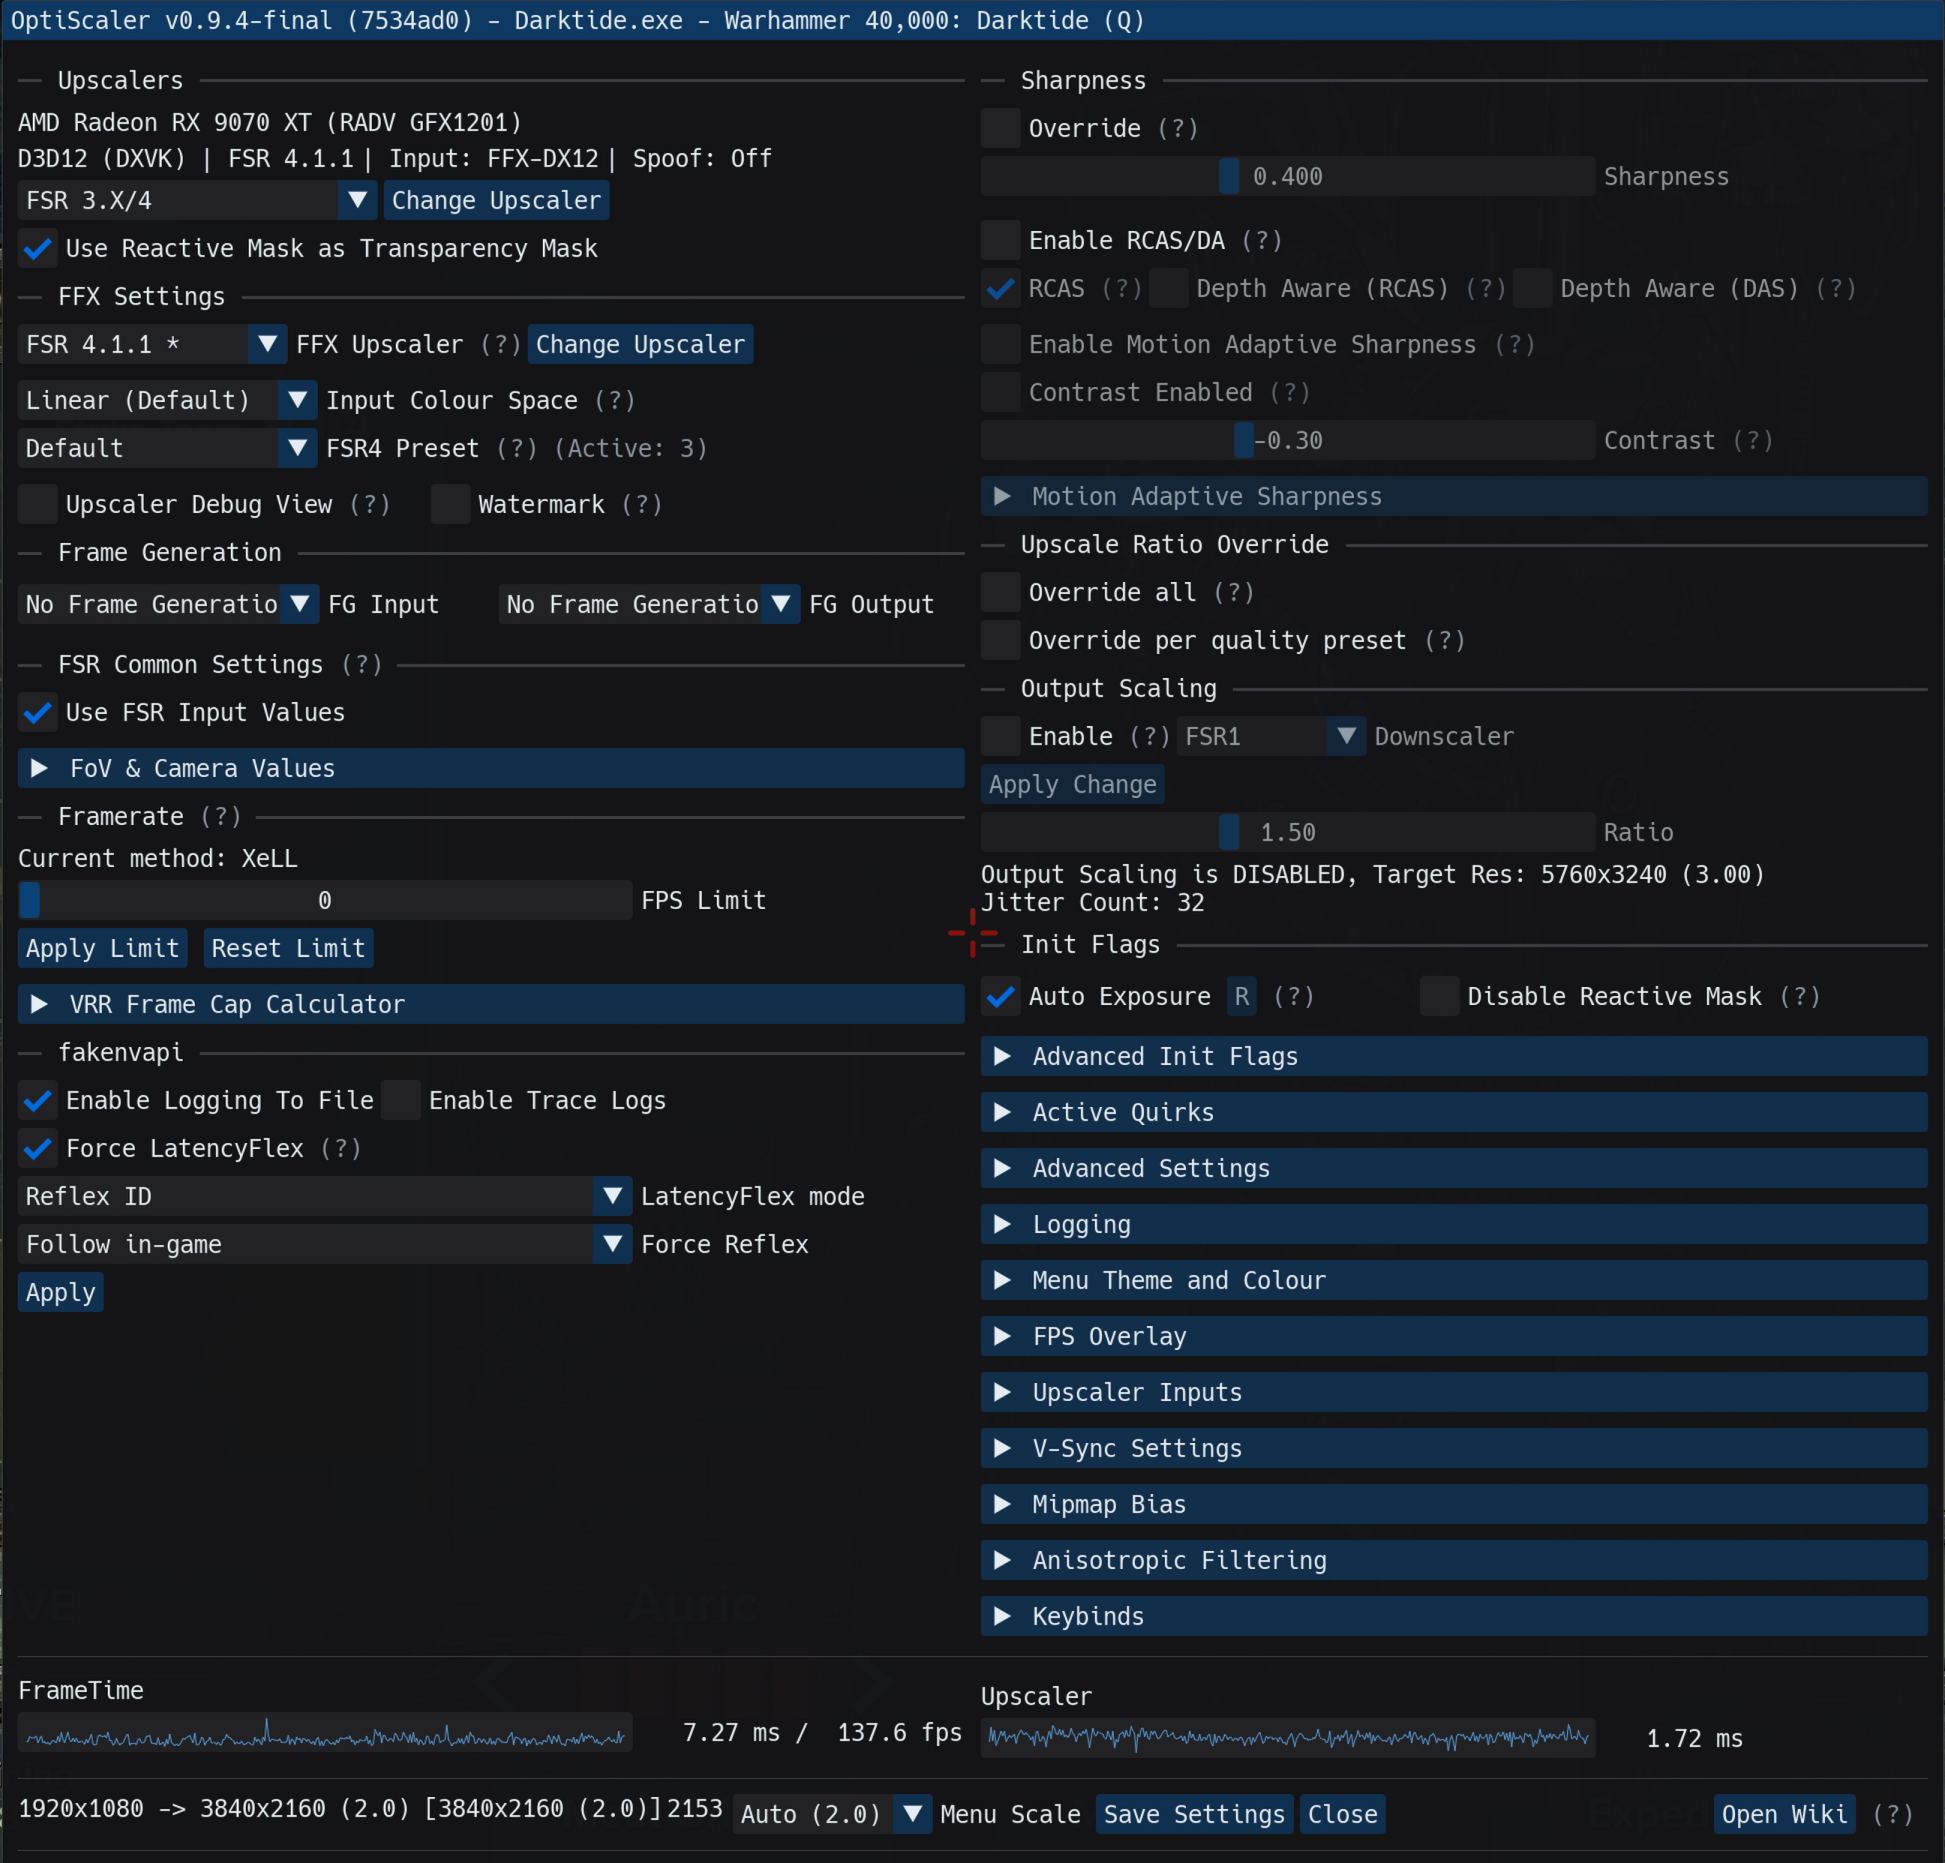
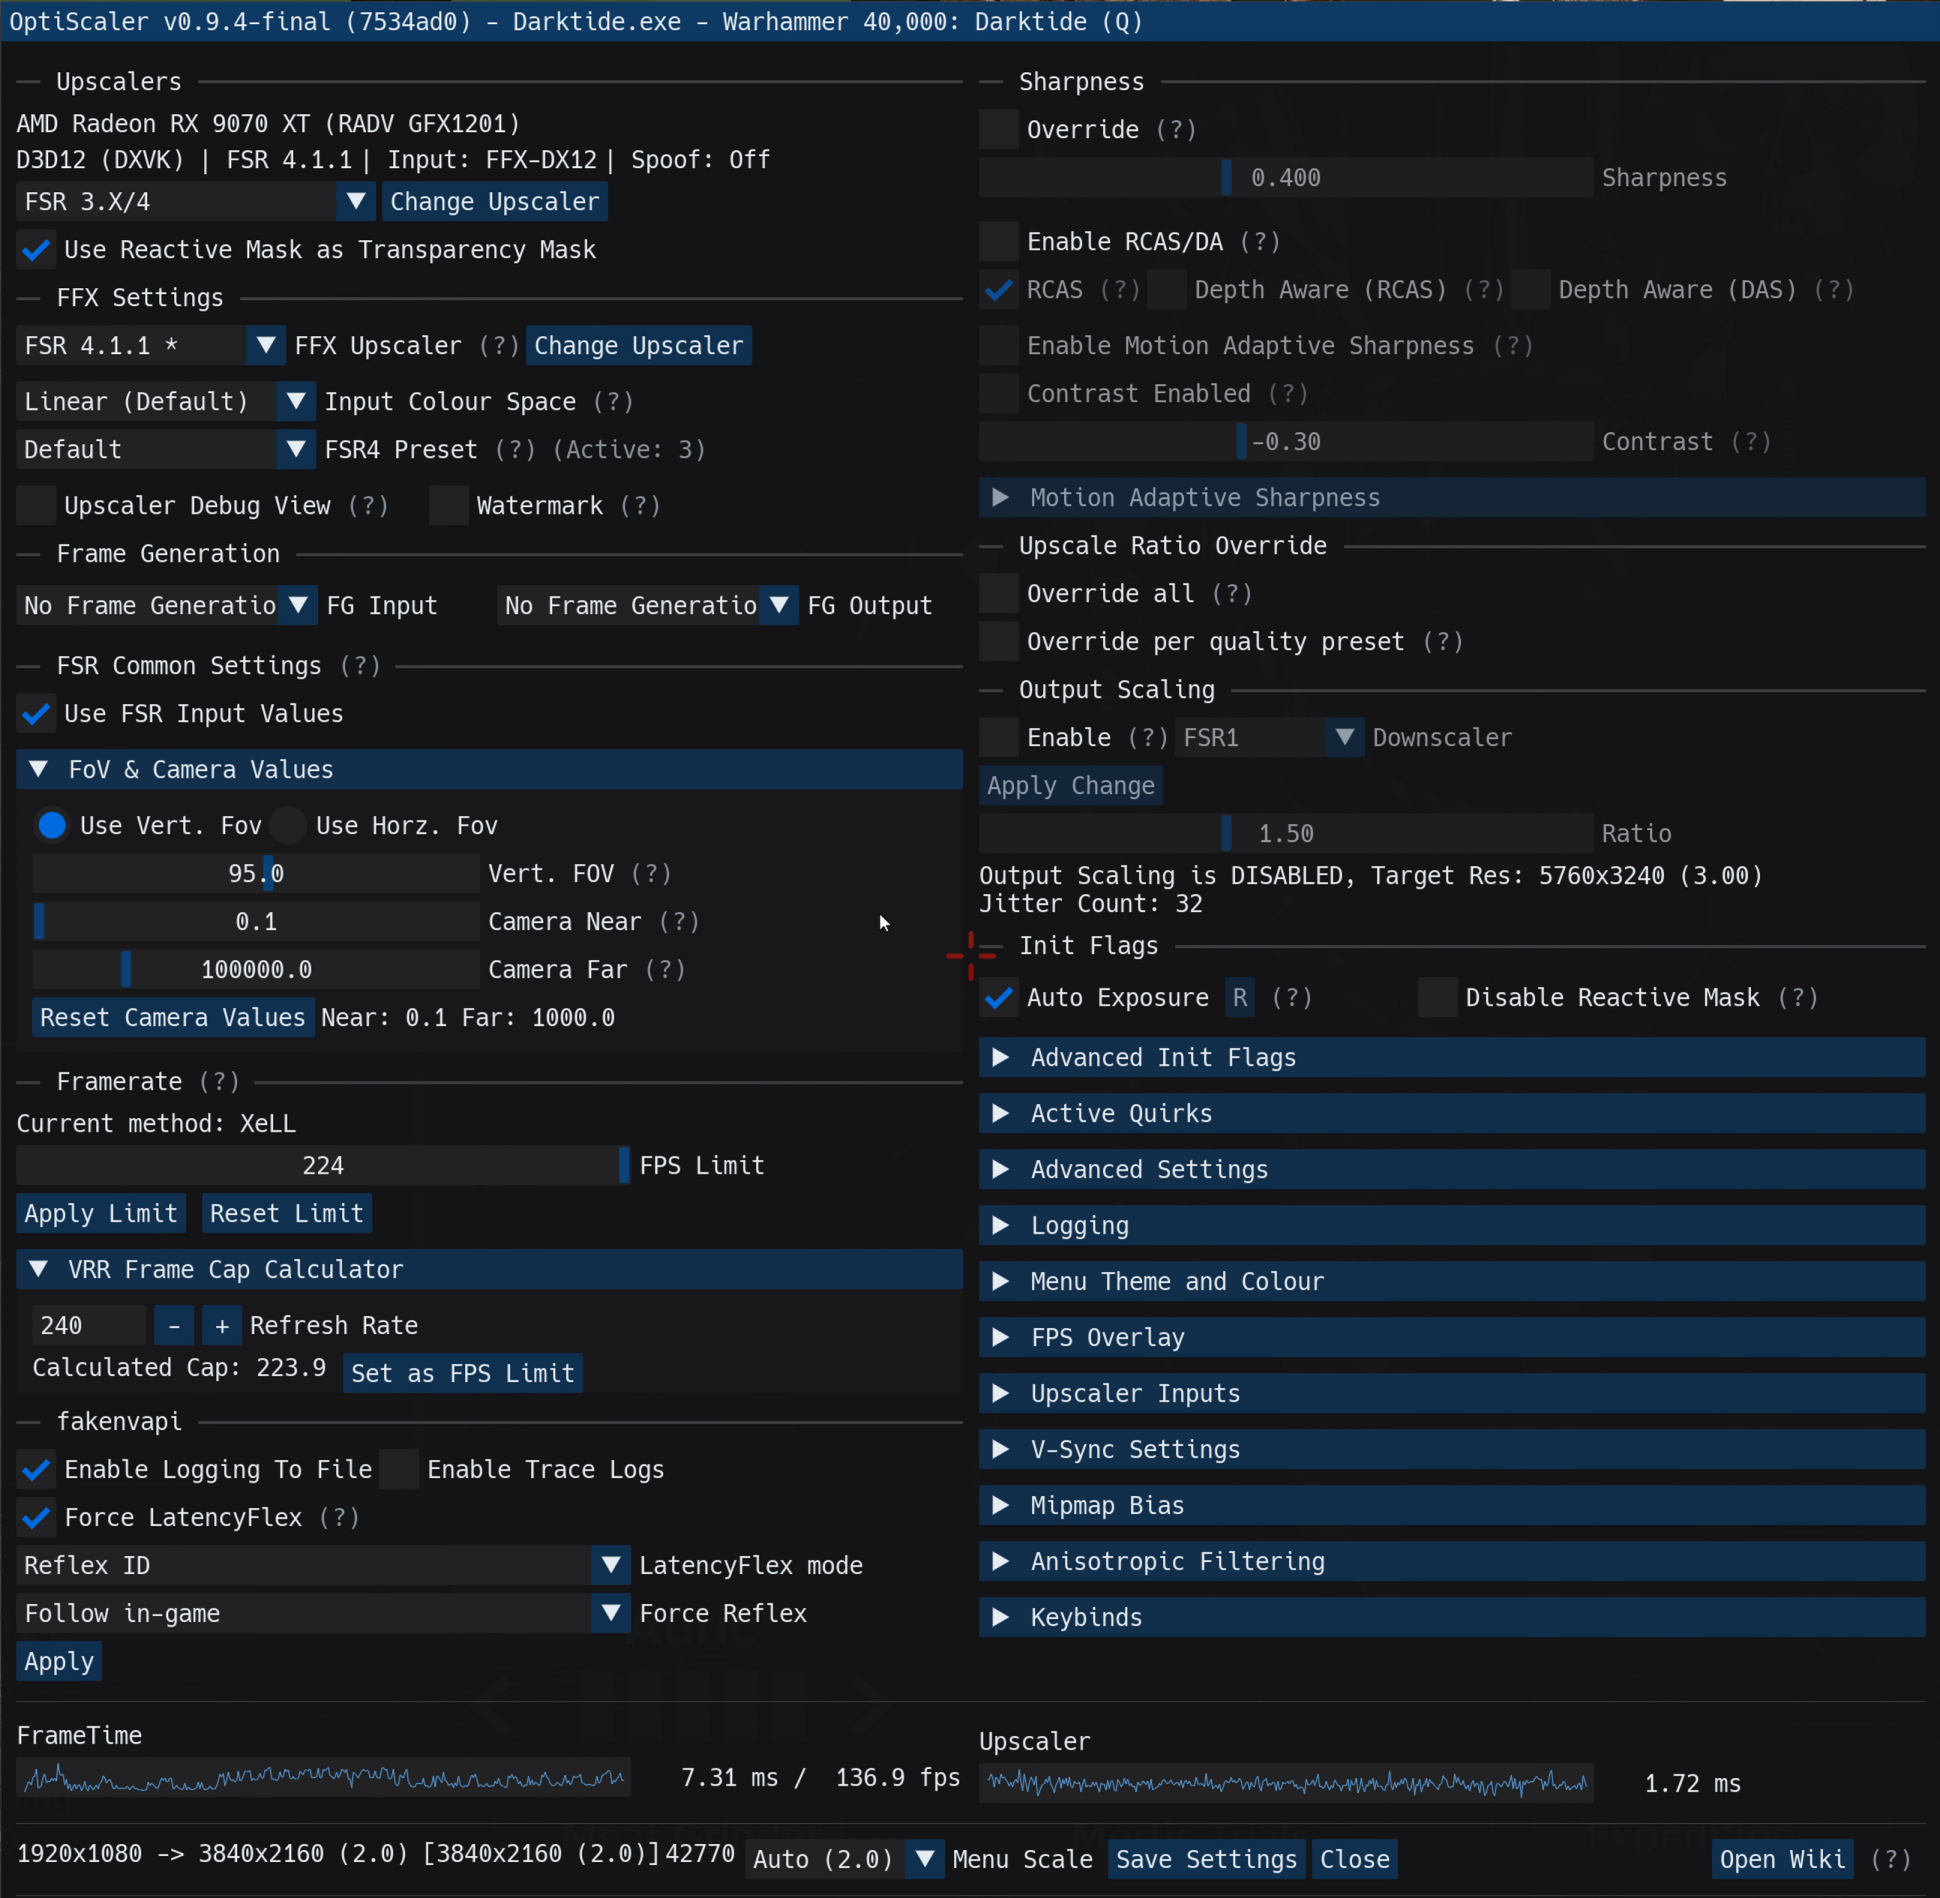
Add files via upload

diff --git a/README.md b/README.md
@@ -499,9 +499,15 @@ Hit insert to bring up the Optiscaler menu. Configure it like this:
 
 ![Optiscaler Menu](Optiscaler.png)
 
-You should also be seeing this water mark in the upper left: 
+Open the VRR Frame Cap Calculator and click `Set as FPS Limit` > then click `Apply Limit`. This is important as it helps to properly pace frames going out to your monitor using VRR. 
+
+You should also see this water mark in the upper left (in the Psykhanium): 
 
 ![FSR 4.1.1 Watermark](FSR4.1.1watermark.png)
+
+Once you've confirmed everything is working you can remove `PROTON_FSR4_INDICATOR=1` from your launch options in steam to remove the water mark. 
+
+Also change the `FOV & Camera Values` adjust the `Vert. FOV` to the value you use in game. 
 
 **Scheduler changes**
 
